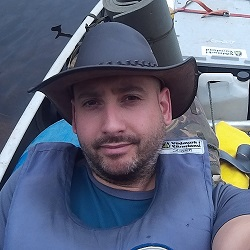
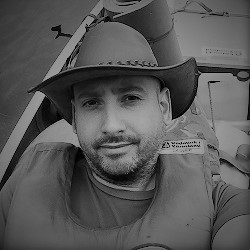
adding about page

diff --git a/src/Public/css/app.css b/src/Public/css/app.css
@@ -10754,6 +10754,13 @@ a.text-dark:focus {
   }
 }
 
+html,
+body {
+  min-height: 100vh;
+  max-width: 100vw;
+  overflow-x: hidden;
+}
+
 header {
   -webkit-clip-path: none;
           clip-path: none;
@@ -10768,6 +10775,7 @@ header {
     background-position: right;
     background-size: cover;
     width: 100vw;
+    max-width: 100vw;
     height: 38vh;
   }
 
@@ -10859,6 +10867,7 @@ header a.nav-item.nav-link {
 
 .card-cv {
   border: 1px solid rgba(0, 0, 0, 0.125);
+  box-shadow: 10px 10px 8px 10px #888888;
 }
 
 .card-cv .card-cv-body {
@@ -10886,9 +10895,11 @@ header a.nav-item.nav-link {
   color: #c400ff !important;
 }
 
-html,
-body {
-  min-height: 100vh;
-  max-width: 100vw;
+.table-gcse tr > td:nth-child(2) {
+  padding-left: 1rem;
+}
+
+.img-profile {
+  border: 2px solid #4b0979;
 }
 

diff --git a/src/Public/js/app.js b/src/Public/js/app.js
@@ -36871,8 +36871,8 @@ if (token) {
 /*! no static exports found */
 /***/ (function(module, exports, __webpack_require__) {
 
-__webpack_require__(/*! C:\wamp64\www\Rinjax\website\src\Resources\Assets\js\app.js */"./src/Resources/Assets/js/app.js");
-module.exports = __webpack_require__(/*! C:\wamp64\www\Rinjax\website\src\Resources\Assets\sass\app.scss */"./src/Resources/Assets/sass/app.scss");
+__webpack_require__(/*! C:\wamp64\www\rinjax\website\src\Resources\Assets\js\app.js */"./src/Resources/Assets/js/app.js");
+module.exports = __webpack_require__(/*! C:\wamp64\www\rinjax\website\src\Resources\Assets\sass\app.scss */"./src/Resources/Assets/sass/app.scss");
 
 
 /***/ })

diff --git a/src/Resources/Assets/sass/app.scss b/src/Resources/Assets/sass/app.scss
@@ -12,19 +12,17 @@
 @import "../fonts/style.css";
 
 
-
+@import "components/html";
 @import 'components/header';
 @import 'components/footer';
 @import 'components/navs';
 @import 'components/cv';
 @import 'components/text';
+@import "components/tables";
+@import "components/img";
 
 
-html, body {
-  min-height: 100vh;
-  max-width: 100vw;
 
-}
 
 
 

diff --git a/src/Resources/Assets/sass/components/_header.scss b/src/Resources/Assets/sass/components/_header.scss
@@ -16,6 +16,7 @@ header {
     background-size: cover;
 
     width: 100vw;
+    max-width: 100vw;
     height: 38vh;
 
     .title {

diff --git a/src/Resources/Assets/sass/components/_html.scss b/src/Resources/Assets/sass/components/_html.scss
@@ -1,0 +1,6 @@
+html, body {
+  min-height: 100vh;
+  max-width: 100vw;
+  overflow-x: hidden;
+
+}

diff --git a/src/Resources/Assets/sass/components/_tables.scss b/src/Resources/Assets/sass/components/_tables.scss
@@ -1,0 +1,6 @@
+
+.table-gcse{
+  tr > td:nth-child(2){
+    padding-left: 1rem;
+  }
+}

diff --git a/src/Resources/Assets/sass/components/_img.scss b/src/Resources/Assets/sass/components/_img.scss
@@ -1,0 +1,3 @@
+.img-profile{
+  border: 2px solid $purple-med;
+}

diff --git a/src/Resources/Views/components/about-text.blade.php b/src/Resources/Views/components/about-text.blade.php
@@ -1,0 +1,31 @@
+<p>
+    <span class="badge badge-success" style="font-size: 1rem">Full Stack Developer</span> - well... i would say im probably the most 'full stack' you can get. Not only can i develop front
+    end and back end code, i can manage the servers it all runs on, make sure they're monitored for uptime, monitor resources
+    and make sure that there's data backups and fail over plans in place.
+</p>
+
+<p>
+    I have been working in technology industries for 19 years now. I started out with a small company stripping down and
+    rebuilding old PC, to recycle and sell on to developing countries. I then went on to work for a telecoms company,
+    maintaining and installing telephones system, and also provided internal IT support. From there,  i worked for an
+    IT consultancy company, looking after several clients in the South East. I provided all manor of
+    support from desktops, laptops, server, printers, WiFi and software. Now I work for a medium sized telecoms company,
+    where i provided all the internal IT support and administration, before moving over to my current role, as a web developer
+    where i build and maintain the company's CRMs and websites.
+</p>
+
+<p>
+    I always really enjoyed the scripting side when doing server and desktop administration. I would always get the feeling
+    of glee seeing the script run through and 'Bang' several servers configured and 100's of desktops PC configured. That's
+    where i started getting a taste for programming. When the opportunity rose to make the change from Systems Administrator
+    to Developer, i jumped in without hesitation and haven't looked back. I can't believe i hadn't made the change sooner!
+</p>
+
+<p>
+    With background knowledge in programming already (from scripting with the servers), it didnt take me long to pickup
+    PHP and the Laravel framework. I played around in my space time, read the documentations, Googled things, and, of course
+    there's stack overflow.
+</p>
+
+
+

diff --git a/src/Resources/Views/components/cv/education.blade.php b/src/Resources/Views/components/cv/education.blade.php
@@ -9,7 +9,8 @@
         <br>1998 - 2000
     </p>
     <p>
-        Passed - coursework includes subjects such as electronics, low level programming, high level programming
+        <span class="badge badge-success">Passed</span> - coursework includes subjects such as electronics, low level programming,
+        high level programming, Maths
     </p>
 </div>
 
@@ -23,22 +24,22 @@
         <br>1993 - 1998
     </p>
     <p>
-    <table>
+    <table class="table-gcse">
         <tr>
             <td>English</td>
-            <td>D</td>
+            <td><span class="badge badge-success">D</span></td>
         </tr>
         <tr>
             <td>Maths</td>
-            <td>C</td>
+            <td><span class="badge badge-success">C</span></td>
         </tr>
         <tr>
             <td>Science</td>
-            <td>B</td>
+            <td><span class="badge badge-success">B</span></td>
         </tr>
         <tr>
             <td>Technology - Electronics</td>
-            <td>B</td>
+            <td><span class="badge badge-success">B</span></td>
         </tr>
     </table>
     </p>

diff --git a/src/Resources/Views/pages/about.blade.php b/src/Resources/Views/pages/about.blade.php
@@ -4,11 +4,23 @@
 
 
 
-    <div class="container">
+    <div class="container mt-5">
         <div class="row">
             <div class="col">
-                <img class="img-fluid rounded-circle d-xs-block d-sm-inline-block mx-xs-auto float-sm-right" src="{!! asset('website/img/profile.jpg') !!}" alt="profile picture">
-                @include('website::components.about-me')
+                <img class="
+                img-fluid
+                rounded-circle
+                d-xs-block
+                d-sm-inline-block
+                mx-xs-auto
+                float-sm-right
+                img-profile"
+                src="{!! asset('website/img/profile.jpg') !!}"
+                alt="profile picture">
+
+                <div>
+                    @include('website::components.about-text')
+                </div>
             </div>
         </div>
     </div>

diff --git a/src/Resources/Views/components/cv/skills.blade.php b/src/Resources/Views/components/cv/skills.blade.php
@@ -3,14 +3,14 @@
 
 <div class="card-body">
    <ul class="d-flex flex-wrap flex-column flex-md-row">
-       <li class="w-50">Windows and Linux server administration</li>
-       <li class="w-50">Client PC and Laptop administration</li>
-       <li class="w-50">Powershell scripting</li>
-       <li class="w-50">Bash scripting</li>
-       <li class="w-50">Laravel framework (PHP)</li>
+       <li class="w-50">Laravel 5 framework (PHP)</li>
        <li class="w-50">Vue framework (JS)</li>
        <li class="w-50">Bootstrap 3 & 4</li>
        <li class="w-50">HTML, SASS, JQuery</li>
+       <li class="w-50">Bash scripting</li>
        <li class="w-50">Git version control</li>
+       <li class="w-50">Powershell scripting</li>
+       <li class="w-50">Windows and Linux server administration</li>
+       <li class="w-50">Client PC and Laptop administration</li>
    </ul>
 </div>

diff --git a/src/Resources/Views/components/menu.blade.php b/src/Resources/Views/components/menu.blade.php
@@ -4,9 +4,9 @@
         <span class="icon-chevrons-down"></span>
     </button>
     <div class="collapse navbar-collapse justify-content-between" id="navbarNavAltMarkup">
-        <div class="navbar-nav ml-auto">
+        <div class="navbar-nav ml-auto pr-md-3">
             <a class="nav-item nav-link active" href="{!! route('website.home') !!}">Home <span class="sr-only">(current)</span></a>
-            <a class="nav-item nav-link" href="#">Features</a>
+            <a class="nav-item nav-link" href="{!! route('website.about') !!}">About</a>
             <a class="nav-item nav-link" href="#">Pricing</a>
             <a class="nav-item nav-link" href="{!! route('website.cv') !!}">CV</a>
         </div>
